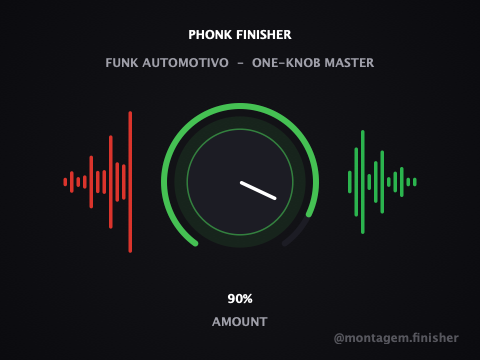
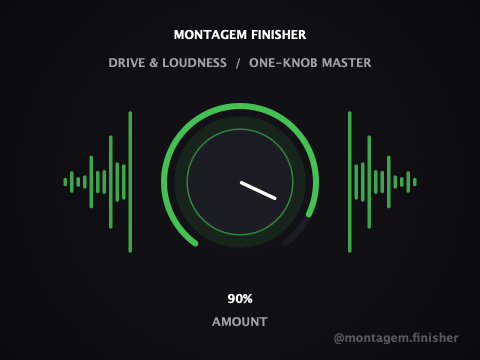
Clarify license: MIT for shown architecture, all-rights-reserved for compiled plugin

diff --git a/Source/PluginEditor.cpp b/Source/PluginEditor.cpp
@@ -4,7 +4,7 @@ namespace
 {
     // Deterministic pseudo-waveform bars used as pure decoration on each side
     // of the knob -- ties the plugin UI back to the "before/after waveform"
-    // visual identity used across the brand's assets, without needing to
+    // visual identity used in the TikTok clips and avatar, without needing to
     // bundle an image asset via BinaryData.
     std::vector<float> makeBarHeights(int count, float seed)
     {
@@ -26,13 +26,13 @@ FinisherEditor::FinisherEditor(FinisherProcessor& p)
 {
     setLookAndFeel(&lookAndFeel);
 
-    titleLabel.setText("PHONK FINISHER", juce::dontSendNotification);
+    titleLabel.setText("MONTAGEM FINISHER", juce::dontSendNotification);
     titleLabel.setJustificationType(juce::Justification::centred);
     titleLabel.setColour(juce::Label::textColourId, juce::Colours::white);
     titleLabel.setFont(juce::Font(juce::FontOptions(26.0f, juce::Font::bold)));
     addAndMakeVisible(titleLabel);
 
-    subtitleLabel.setText("FUNK AUTOMOTIVO  -  ONE-KNOB MASTER", juce::dontSendNotification);
+    subtitleLabel.setText("DRIVE & LOUDNESS  /  ONE-KNOB MASTER", juce::dontSendNotification);
     subtitleLabel.setJustificationType(juce::Justification::centred);
     subtitleLabel.setColour(juce::Label::textColourId, FinisherLookAndFeel::textDim);
     subtitleLabel.setFont(juce::Font(juce::FontOptions(12.0f, juce::Font::plain)));
@@ -58,7 +58,7 @@ FinisherEditor::FinisherEditor(FinisherProcessor& p)
     footerLabel.setFont(juce::Font(juce::FontOptions(11.0f, juce::Font::bold)));
     addAndMakeVisible(footerLabel);
 
-    amountSlider.onValueChange = [this] { updateValueLabel(); };
+    amountSlider.onValueChange = [this] { updateValueLabel(); repaint(); };
     updateValueLabel();
 
     brandLabel.setText("@montagem.finisher", juce::dontSendNotification);

diff --git a/Source/FinisherProcessor.h b/Source/FinisherProcessor.h
@@ -25,7 +25,7 @@ public:
     juce::AudioProcessorEditor* createEditor() override;
     bool hasEditor() const override { return true; }
 
-    const juce::String getName() const override { return "Phonk Finisher"; }
+    const juce::String getName() const override { return "Montagem Finisher"; }
     bool acceptsMidi() const override { return false; }
     bool producesMidi() const override { return false; }
     double getTailLengthSeconds() const override { return 0.0; }

diff --git a/README.md b/README.md
@@ -1,4 +1,4 @@
-# Phonk Finisher
+# Montagem Finisher
 
 **A one-knob "genre finisher" audio plugin for funk automotivo / phonk producers.**
 
@@ -7,21 +7,21 @@ tonally-shaped, level-matched sound — no mixing knowledge required. Built with
 [JUCE](https://juce.com/), ships as VST3 / AU / Standalone on macOS and Windows.
 
 <p align="center">
-  <img src="assets/screenshot.png" alt="Phonk Finisher plugin UI">
+  <img src="assets/screenshot.png" alt="Montagem Finisher plugin UI">
 </p>
 
 <p align="center">
-  <strong><a href="https://github.com/nabsei/phonk-finisher/releases/latest">⬇ Download the latest beta</a></strong> — macOS and Windows, free.
+  <strong><a href="https://github.com/nabsei/montagem-finisher/releases/latest">⬇ Download the latest beta</a></strong> — macOS and Windows, free.
 </p>
 
 <p align="center">
-  Also listed on <a href="https://www.kvraudio.com/product/phonk-finisher-by-montagemfinisher">KVR Audio</a> and <a href="https://montagemfinisher.itch.io/phonk-finisher">itch.io</a>.
+  Also listed on <a href="https://www.kvraudio.com/product/phonk-finisher-by-montagemfinisher">KVR Audio</a>.
 </p>
 
 ## Why one knob
 
 Most effect plugins hand you five to ten parameters and assume you know how to use
-them. Phonk Finisher is built for a specific audience — funk automotivo / phonk
+them. Montagem Finisher is built for a specific audience — funk automotivo / phonk
 producers who want a sound that already matches the genre, fast — so every
 parameter that would normally be exposed (drive, tone, output limiting) is instead
 derived from a single `Amount` macro. Turn it up, it gets more "finished."
@@ -59,8 +59,12 @@ cmake -B build -G Ninja -DCMAKE_BUILD_TYPE=Release
 cmake --build build
 ```
 
+On macOS, add `-DCMAKE_OSX_ARCHITECTURES="arm64;x86_64"` to the configure step
+to build a universal binary (Apple Silicon + Intel) instead of the host-only
+default. The official beta releases are built this way.
+
 This produces a VST3, an AU component, and a standalone app under
-`build/PhonkFinisher_artefacts/Release/`, and installs the plugin formats into
+`build/MontagemFinisher_artefacts/Release/`, and installs the plugin formats into
 your system's plugin folders automatically (`COPY_PLUGIN_AFTER_BUILD`).
 
 ## Project structure
@@ -83,6 +87,11 @@ CMakeLists.txt
 
 ## License
 
-MIT — see [LICENSE](LICENSE). Covers the architecture shown in this
-repository (JUCE plugin wrapper, UI, build setup). As noted above, the
-DSP calibration used in the actual product is not included here.
+**This repository's source code:** MIT — see [LICENSE](LICENSE). Covers
+the architecture shown here (JUCE plugin wrapper, UI, build setup). As
+noted above, the DSP calibration used in the actual product is not
+included in this source.
+
+**The compiled plugin (downloads / releases):** All rights reserved —
+free to use, not free to redistribute or resell. See the `TERMS.txt`
+included in each release download for the full terms.